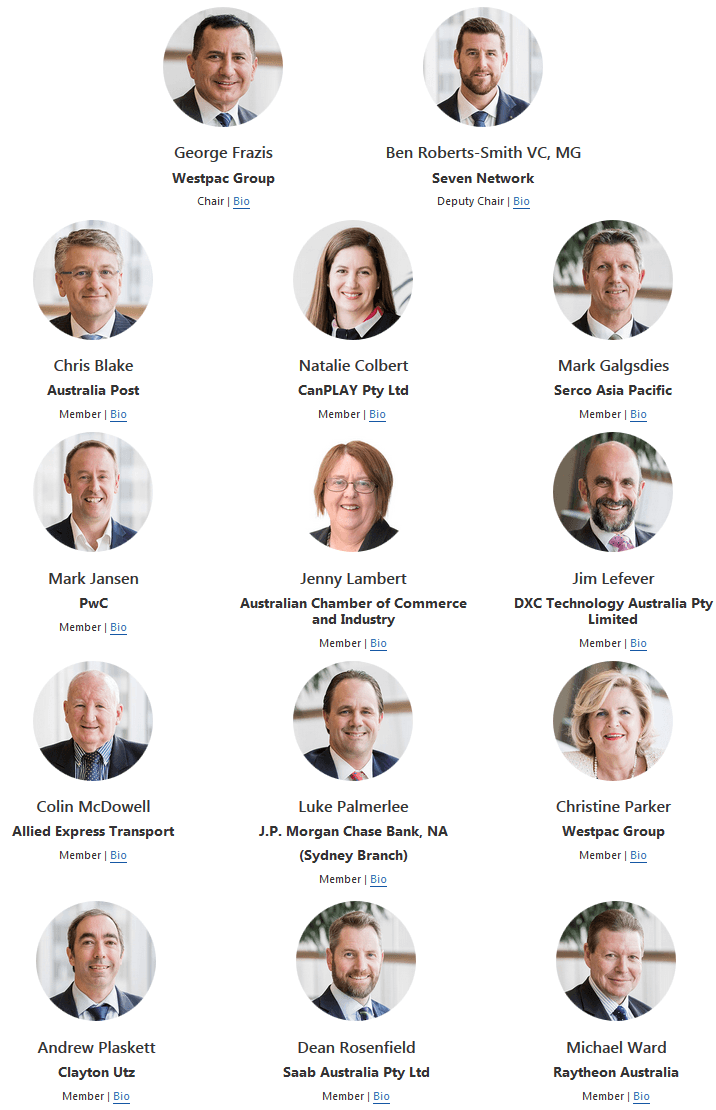
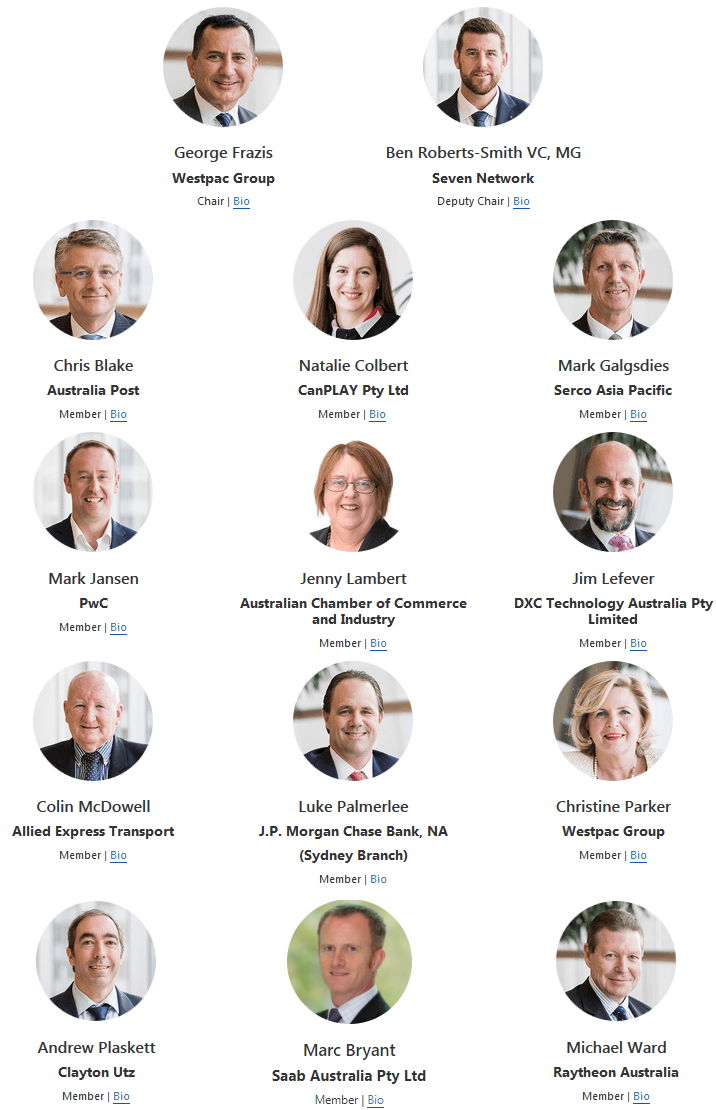
VEP-47 new IAC biography. Clean up code for focus management.

Changed region(s): [[0.3687, 0.7964, 0.6145, 1.0]]

diff --git a/src/components/bio.js b/src/components/bio.js
@@ -13,7 +13,7 @@ import BioPalmerlee from "../image/bios/PalmerLee_280x350.jpg";
 import BioParker from "../image/bios/Parker_280x350.jpg";
 import BioPlaskett from "../image/bios/Plaskett_280x350.jpg";
 import BioRobertsSmith from "../image/bios/Roberts-Smith_280x350.jpg";
-import BioRosenfield from "../image/bios/Rosenfield_280x350.jpg";
+import BioBioBryant from "../image/bios/Bryant_280x350.jpg";
 import BioWard from "../image/bios/Ward_280x350.jpg";
 
 
@@ -32,62 +32,20 @@ class BackLink extends React.Component {
 
 export default class Bio extends React.Component {
 
-  constructor(props) {
+constructor(props) {
    super(props);
    this.focus = this.focus.bind(this);
 }
 
- focus() {
-    const LOCATION = (location.search);
-
-     switch(LOCATION) {
-     case "?member=Frazis":
-         this.refs.Frazis.focus();
-         break;
-     case "?member=RobertsSmith":
-         this.refs.RobertsSmith.focus();
-         break;
-     case "?member=Blake":
-         this.refs.Blake.focus();
-         break;
-     case "?member=Colbert":
-         this.refs.Colbert.focus();
-         break;
-     case "?member=Galgsdies":
-         this.refs.Galgsdies.focus();
-         break;
-     case "?member=Jansen":
-         this.refs.Jansen.focus();
-         break;
-     case "?member=Lambert":
-         this.refs.Lambert.focus();
-         break;
-     case "?member=Lefever":
-         this.refs.Lefever.focus();
-         break;
-     case "?member=McDowell":
-         this.refs.McDowell.focus();
-         break;
-     case "?member=Palmerlee":
-         this.refs.Palmerlee.focus();
-         break;
-     case "?member=Parker":
-         this.refs.Parker.focus();
-         break;
-     case "?member=Plaskett":
-         this.refs.Plaskett.focus();
-         break;
-     case "?member=Rosenfield":
-         this.refs.Rosenfield.focus();
-          break;
-     case "?member=Ward":
-          this.refs.Ward.focus();
-          break;
- }
- }
+focus() {
+  this.focus();
+}
 
  componentDidMount() {
-  this.focus();
+   var loc = (location.search);
+   var ref = loc.substr(8);
+
+   this.refs[ref].focus();
  }
 
   render(){
@@ -492,28 +450,37 @@ export default class Bio extends React.Component {
            <BackLink />
         </section>
 
-        <section ref="Rosenfield" tabIndex="-1"  className="bio-section no-border" id="BioRosenfield">
+        <section ref="Bryant" tabIndex="-1"  className="bio-section no-border" id="BioBryant">
           <div className="row">
               <div className="col-xs-6 col-md-3 col-sm-3">
                   <div className="thumbnail">
-                    <img src={BioRosenfield} alt="Dean Rosenfield"/>
+                    <img src={BioBioBryant} alt="Marc Bryant"/>
                   </div>
               </div>
 
               <div className="col-md-8">
-                  <p className="bio-description">Dean Rosenfield</p>
-                  <p className="bio-description">Managing Director</p>
+                  <p className="bio-description">Marc Bryant</p>
+                  <p className="bio-description">Program Manager – Land</p>
                   <p className="bio-description">Saab Australia Pty Ltd</p>
 
-                  <p className="break">Dean Rosenfield was appointed as the Managing Director of Saab Australia Pty Ltd in 2013 and is the senior representative
-                     for the Saab defence and security corporation in Australia and New Zealand. </p>
-                  <p>Dean is a graduate of the Royal Military College, Duntroon and served 15 years in the Australian Army
-                     before moving to industry in 1999 as a management consultant.</p>
-                  <p>He has been with Saab since 2001 and has held senior roles in engineering, project management and business development
-                     on the defence side of the business.  In 2007, Dean established Saab’s Civil Security business which now specialises
-                     in security, air traffic management and communications. </p>
-                  <p>He holds a Master of Management (Project Management) from the University of NSW and is a Member of the Australian
-                     Institute of Company Directors.</p>
+                  <p className="break">
+                    Marc is the Program Manager for Saab Australia’s Land domain, responsible for the delivery of Land projects with
+                    a focus on Air and Missile Defence.  He joined Saab Australia in 2014 and has recently been appointed as the company’s
+                    Advocate for Veteran Employment, responsible for coordinating veteran recruitment, retention and communication.</p>
+
+
+                    <p>
+                      Marc graduated from the Royal Military Academy Sandhurst in 1995 and served for 10 years in the British
+                      Army before joining the Australian Regular Army for a further 8 years.  He transitioned from the Army in 2012
+                      after serving in the Royal Artillery, Army Air Corps, Royal Australian Artillery and after three operational
+                      deployments in Northern Ireland and Afghanistan. Prior to working for Saab Australia, Marc worked as a Consultant
+                      in the resources sector for two years upon successful transition from the military.</p>
+
+                    <p>
+                      Marc has a Masters Degree in Management Studies from the University of New South Wales and holds an Advanced Diploma
+                      and Certificate IV in Government.</p>
+
+
                </div>
              </div>
             <BackLink />
@@ -555,5 +522,3 @@ export default class Bio extends React.Component {
     );
   }
 }
-
-

diff --git a/src/components/iac.js b/src/components/iac.js
@@ -12,7 +12,7 @@ import BioPalmerlee from "../image/bios/biopalmerlee.jpg";
 import BioParker from "../image/bios/bioparker.jpg";
 import BioPlaskett from "../image/bios/bioplaskett.jpg";
 import BioRobertsSmith from "../image/bios/bioroberts-smith.jpg";
-import BioRosenfield from "../image/bios/biorosenfield.jpg";
+import BioBryant from "../image/bios/biobryant.jpg";
 import BioWard from "../image/bios/bioward.jpg";
 import Bio_Print from "../image/bios/iac_bio.png";
 import TopLink from "./partials/topLink";
@@ -185,10 +185,10 @@ export default class IAC extends React.Component {
                     <figcaption className="bio-position">Member | <Link to ="/member-biographies?member=Plaskett#BioPlaskett" >Bio</Link></figcaption>
                   </figure>
                   <figure className="col-md-4 col-sm-4 col-xs-12 text-center">
-                    <img src={BioRosenfield} alt="Dean Rosenfield" className="img-circle" height="150px" width="150px"></img>
-                    <figcaption className="bio-title">Dean Rosenfield</figcaption>
+                    <img src={BioBryant} alt="Marc Bryant" className="img-circle" height="150px" width="150px"></img>
+                    <figcaption className="bio-title">Marc Bryant</figcaption>
                     <figcaption className="bio-description">Saab Australia Pty Ltd</figcaption>
-                    <figcaption className="bio-position">Member | <Link to="/member-biographies?member=Rosenfield#BioRosenfield" >Bio</Link></figcaption>
+                    <figcaption className="bio-position">Member | <Link to="/member-biographies?member=Bryant#BioBryant" >Bio</Link></figcaption>
                   </figure>
                   <figure className="col-md-4 col-sm-4 col-xs-12 text-center">
                     <img src={BioWard} alt="Michael Ward" className="img-circle" height="150px" width="150px"></img>
